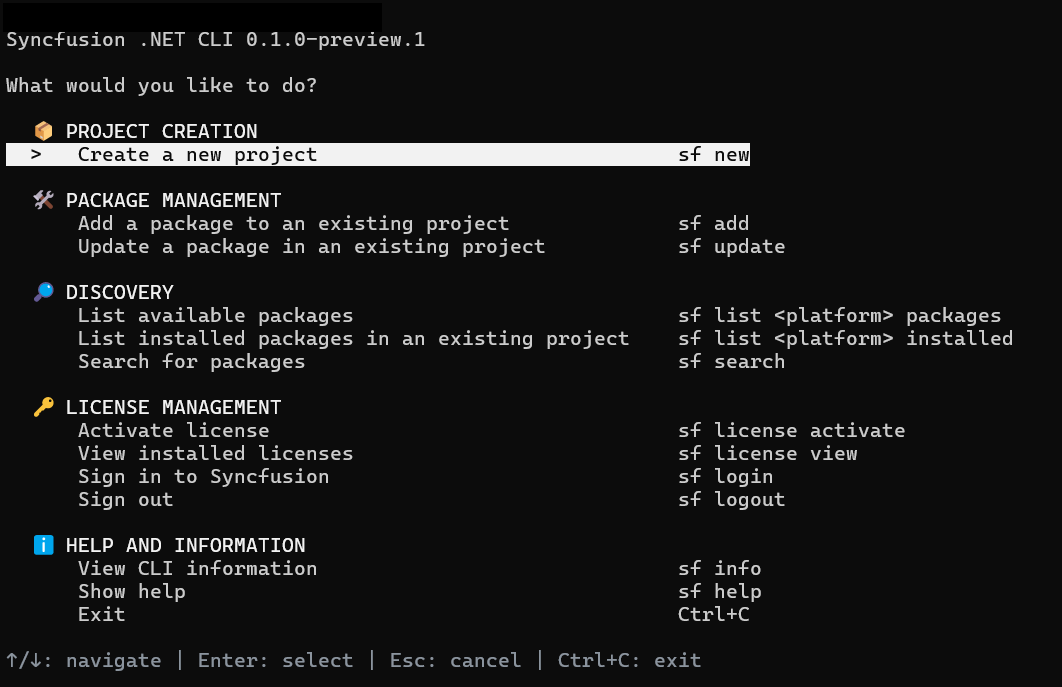
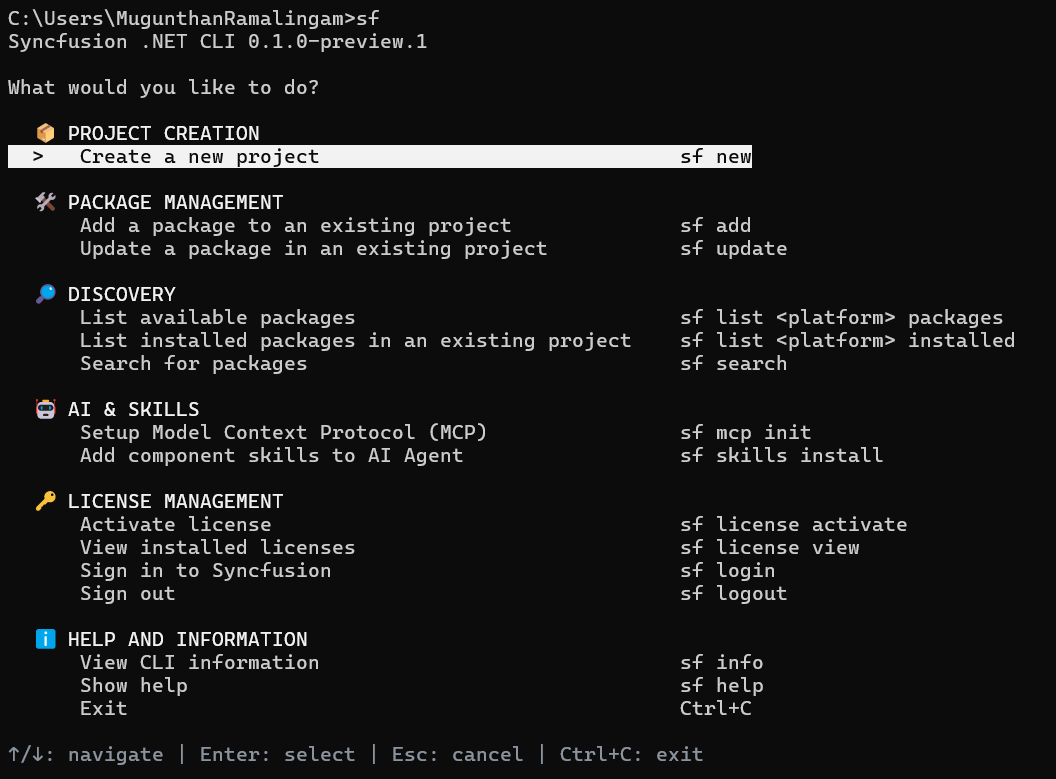
Document MCP and AI Skills configuration in the .NET CLI user guide

diff --git a/maui-toc.html b/maui-toc.html
@@ -100,7 +100,7 @@
                 </li>
                 </ul>
             </li>
-            <li>
+            <li class="label-updated">
                 <a href="/maui/dotnet-cli/dotnet-cli">.NET CLI</a>
             </li>
             <li><a href="/maui/Framework-Compatibility">.NET Framework Compatibility</a></li>

diff --git a/MAUI/dotnet-cli/dotnet-cli.md b/MAUI/dotnet-cli/dotnet-cli.md
@@ -1,7 +1,7 @@
 ---
 layout: post
 title: Syncfusion .NET CLI Overview for .NET MAUI | Syncfusion®
-description: Learn to install and use the Syncfusion® .NET CLI (sf) to create .NET MAUI apps, manage Syncfusion MAUI NuGet packages, and register licenses.
+description: Learn to install and use the Syncfusion® .NET CLI (sf) to create .NET MAUI apps, manage Syncfusion MAUI NuGet packages, register licenses, and configure MCP servers and AI skills.
 platform: MAUI
 control: Syncfusion<sup>®</sup> .NET CLI
 documentation: UG
@@ -19,6 +19,8 @@ You can use the CLI to perform the following actions:
 * Add or update Syncfusion<sup>®</sup> .NET MAUI NuGet package references in an existing project.
 * List available and installed packages, and search the package catalog.
 * Activate Syncfusion<sup>®</sup> licenses for the controls used in a sample, and view installed licenses.
+* Configure an official Syncfusion<sup>®</sup> Model Context Protocol (MCP) server for AI coding clients.
+* Install official Syncfusion<sup>®</sup> component skills for AI agents.
 * Generate projects for .NET MAUI, Blazor, WPF, WinForms, and WinUI 3.
 
 This documentation covers the .NET MAUI platform.
@@ -77,6 +79,8 @@ Run `sf` in an interactive terminal to open the main menu. The menu shows the cu
 | Discovery | List available packages | `sf list <platform> packages` |
 | Discovery | List installed packages in an existing project | `sf list <platform> installed` |
 | Discovery | Search for packages | `sf search` |
+| AI & Skills | Setup Model Context Protocol (MCP) | `sf mcp init` |
+| AI & Skills | Add component skills to AI Agent | `sf skills install` |
 | License management | Activate license | `sf license activate` |
 | License management | View installed licenses | `sf license view` |
 | License management | Sign in to Syncfusion | `sf login` |
@@ -109,6 +113,8 @@ Complete direct commands remain usable without opening the menu. `--no-interacti
 | `sf list maui packages` | List available packages |
 | `sf list maui installed` | List installed packages in an existing project |
 | `sf search maui <text>` | Search packages |
+| `sf mcp init maui` | Configure a project-local Syncfusion<sup>®</sup> MCP client |
+| `sf skills install maui` | Install Syncfusion<sup>®</sup> component skills for AI agents |
 | `sf login` | Sign in to Syncfusion through the browser |
 | `sf logout` | Sign out and clear the local session |
 | `sf license activate` | Download the license for the project's packages and register it in the project's startup code |
@@ -345,6 +351,160 @@ The cached output reports the registered email, platform, major version, and one
 * The startup file the CLI modifies by platform is `MauiProgram.cs` for .NET MAUI, `Program.cs` for Blazor, `App.xaml.cs` for WPF, `App.xaml.cs` for WinUI, and `Program.cs` (or `Application.xaml.vb` for VB) for WinForms.
 * Use `sf logout` to clear the local sign-in session. Use `sf login` to sign in again without running activation.
 
+## Configure an MCP server
+
+The `sf mcp init` command configures the official Syncfusion<sup>®</sup> .NET MAUI MCP server (`Syncfusion.Maui.MCP`) for an AI coding client in a project-local workspace. The MCP server exposes Syncfusion<sup>®</sup> documentation and product knowledge to AI agents, such as GitHub Copilot, Cursor, and Claude Code.
+
+The MCP setup workflow does not install component libraries and does not modify application code. It only writes the client's project-local MCP configuration file and, when needed, installs the official MCP NuGet tool.
+
+### Prerequisites
+
+* The .NET SDK 8 or later must be selected in the target workspace. The `--runner dnx` mode requires .NET SDK 10 or later.
+* A Syncfusion<sup>®</sup> MCP API key, generated at [https://www.syncfusion.com/account/api-key](https://www.syncfusion.com/account/api-key).
+* An active Syncfusion<sup>®</sup> license for MCP usage.
+
+N> The MCP API key is separate from your product license key and from the `sf login` session. It is used only by the MCP server.
+
+### Configure MCP through the interactive menu
+
+1. Run `sf` to open the main menu, and under **AI & Skills**, select **Setup Model Context Protocol (MCP)**.
+
+    ![AI and Skills section in the Syncfusion .NET CLI main menu](images/cli-setup-mcp-command-menu.png)
+
+2. Select the platform. Choose **.NET MAUI**.
+
+    ![Platform selection in the MCP setup flow of the Syncfusion .NET CLI](images/cli-select-platform-mcp.png)
+
+3. Enter the workspace directory. The default is the current directory. The workspace directory must already exist.
+
+4. Select the MCP client: **VS Code / GitHub Copilot**, **Cursor**, **Syncfusion Code Studio**, or **Claude Code**.
+
+5. Enter the API-key file path. The CLI prints the API-key download location, and the file must exist before setup. It must remain outside the workspace directory.
+
+    ![MCP configuration saved successfully in the Syncfusion .NET CLI](images/cli-configured-mcp.png)
+
+6. Open or reload the workspace in the selected client, start the server, and confirm that its tools are listed. Then ask a Syncfusion documentation question to verify the integration.
+
+N> Saving the configuration does not verify the connection to the MCP server. The CLI does not start the server or contact it during setup.
+
+### Configure MCP using direct commands
+
+```bash
+sf mcp init maui --client vscode --key-file "C:\Users\me\.syncfusion\api-key.txt"
+sf mcp init maui --client cursor --path "C:\Projects\MyApp" --key-file "C:\Keys\syncfusion.key"
+sf mcp init maui --client codestudio --key-file "C:\Keys\syncfusion.key" --dry-run
+sf mcp init maui --client claude-code --key-file "C:\Keys\syncfusion.key" --no-interactive --json
+```
+
+In a direct command, the platform is the positional argument. `--path` defaults to the current directory. In noninteractive or `--json` usage, the platform, client, and key file must be provided explicitly.
+
+### MCP configuration file location
+
+The CLI writes a project-local configuration file inside the workspace, next to the client's expected location:
+
+| Client | Configuration file | Server property |
+| --- | --- | --- |
+| VS Code / GitHub Copilot | `.vscode/mcp.json` | `servers` |
+| Cursor | `.cursor/mcp.json` | `mcpServers` |
+| Syncfusion Code Studio | `.codestudio/mcp.json` | `servers` |
+| Claude Code | `.mcp.json` | `mcpServers` |
+
+The generated entry registers a server named `sf-maui-mcp`. For example, for VS Code the CLI adds the following entry to `.vscode/mcp.json`:
+
+```json
+{
+  "servers": {
+    "sf-maui-mcp": {
+      "type": "stdio",
+      "command": "dotnet",
+      "args": ["tool", "run", "syncfusion-maui-mcp"],
+      "env": {
+        "Syncfusion_API_Key_Path": "C:\\Keys\\syncfusion.key"
+      }
+    }
+  }
+}
+```
+
+The CLI edits only the selected platform server entry. Unrelated JSON values, comments, and trailing commas in the file are preserved. Malformed files, duplicate JSON properties, and wrong-shaped configurations are rejected before any change is written. An identical existing entry is left untouched; a differing entry requires `--force`, which replaces only that platform's server entry.
+
+### Runner modes
+
+The MCP server runs as a .NET tool. The `--runner` option selects how the client starts it:
+
+| Runner | Behavior |
+| --- | --- |
+| `auto` (default) | Checks the .NET SDK selected in the workspace (including `global.json`). SDK 10 or later uses `dnx`; SDK 8/9 uses the local tool mode. |
+| `dnx` | Starts the server with `dnx Syncfusion.Maui.MCP --yes`. The package is downloaded when the client first starts the server. Requires .NET SDK 10 or later. |
+| `local` | Creates a local tool manifest at `.config/dotnet-tools.json` if one does not exist, installs the `Syncfusion.Maui.MCP` tool into it, and configures `dotnet tool run syncfusion-maui-mcp`. |
+
+N> When the local tool manifest already lists the MCP tool, the CLI restores the manifest's tools instead of reinstalling. This may also download other tools listed in that manifest. Run the client from the configured workspace so local-tool resolution uses that manifest.
+
+### MCP API key configuration
+
+The MCP server authenticates with a Syncfusion<sup>®</sup> API key that is different from the product license key. The CLI never reads, copies, or stores the key itself. It writes only the absolute file path into the configuration as the `Syncfusion_API_Key_Path` environment variable.
+
+**Create the API key file:**
+
+1. Sign in to your Syncfusion<sup>®</sup> account and generate an API key at [https://www.syncfusion.com/account/api-key](https://www.syncfusion.com/account/api-key).
+2. Save the key into a `.txt` or `.key` file, such as `C:\Users\me\.syncfusion\api-key.txt` or `~/.syncfusion/api-key.key`. These are the only supported file extensions.
+3. Keep the file outside the workspace directory. Setup rejects a key file located inside the workspace to prevent the credential from being committed to source control.
+4. Pass the file path through `--key-file` or enter it at the prompt. The CLI suggests the path stored in the `Syncfusion_API_Key_Path` environment variable as the default.
+
+**Update or manage the key:**
+
+* To use a new key value, edit the existing file in place. The configuration stores the file path, not the key content, so no configuration change is needed.
+* To use a different file, re-run `sf mcp init` with the new `--key-file` path.
+* Symbolic links are rejected; pass the real file path.
+
+W> Never commit the API-key file to source control, and never paste the key value directly into the terminal. Store the file in a location excluded from repositories, such as the user profile directory.
+
+## Install AI component skills
+
+The `sf skills install` command installs the official Syncfusion<sup>®</sup> .NET MAUI component skills for AI agents from the `syncfusion/maui-ui-components-skills` GitHub repository. Skills give AI agents product-specific guidance for generating and editing Syncfusion<sup>®</sup> control code. Skills are installed for the agents you choose, either project-local or global.
+
+No Syncfusion<sup>®</sup> account, API key, or license is required to install or read skills.
+
+### Prerequisites
+
+* [Node.js](https://nodejs.org) 22.20 or later, installed with npm and Git, available on `PATH`.
+* The setup uses the official Skills CLI (`skills@1.7.4`) through npx, which may download the CLI package and the official skills repository on first use.
+
+### Install skills through the interactive menu
+
+1. Run `sf` to open the main menu, and under **AI & Skills**, select **Add component skills to AI Agent**.
+
+    ![Add component skills to AI Agent option in the Syncfusion .NET CLI main menu](images/cli-setup-skills-command-menu.png)
+
+2. Select the platform. Choose **.NET MAUI**.
+
+    ![Platform selection in the skills installation flow of the Syncfusion .NET CLI](images/cli-select-platform-skills.png)
+
+3. Enter the workspace directory. The Skills CLI then presents its own interactive flow, in which you choose the component skills, the agents, and the project or global scope. No API key is required.
+
+    ![Component skills, agents, and scope selection in the Skills CLI](images/skills-installation.png)
+
+4. After the Skills CLI completes, the CLI reports the completed status for the skills repository.
+
+    ![Skills installed successfully in the Syncfusion .NET CLI](images/cli-skills-installed.png)
+
+### Install skills using direct commands
+
+```bash
+sf skills install maui
+sf skills install maui --list
+sf skills install maui --agent github-copilot --skill <exact-skill-name> --yes
+sf skills install maui --agent cursor claude-code --all --yes
+```
+
+* Use `--list` to list the exact skill names available in the repository without installing anything.
+* Use `--agent` with one or more agent IDs: `github-copilot`, `cursor`, `codestudio`, or `claude-code`.
+* Use `--skill` with one or more exact skill names, or `--all` to install all skills for the selected agents. `--all` does not mean all agents.
+* Noninteractive installation requires `--agent`, `--skill` (or `--all`), and `--yes`. The scope defaults to project-local; add `--global` explicitly to install skills in the user's global agent directories.
+* Skills are copied into the agent's skills location, so no symlink privileges are required.
+
+N> `completed` means the Skills CLI exited successfully, not that an AI agent has loaded or executed the skills. Reload the workspace in your AI agent so the newly installed skills are picked up.
+
 ## Options reference
 
 ### Creation options
@@ -380,6 +540,34 @@ N> `--post-action build` conflicts with `--no-build`. Neither `--force` nor conf
 | `--no-restore` | Skip `dotnet restore` after the action |
 | `--json` | Emit one JSON document |
 
+### MCP options
+
+| Option | Description |
+| --- | --- |
+| `<platform>` | The platform: `maui`, `blazor`, `wpf`, `winforms`, or `winui` |
+| `--client` | The MCP client: `vscode`, `cursor`, `codestudio`, or `claude-code` |
+| `--key-file` | Path to an existing API-key `.txt`/`.key` file outside the workspace |
+| `--runner` | Server runner: `auto` (default), `dnx`, or `local` |
+| `-p`, `--path` | The workspace directory. Defaults to the current directory. The directory must already exist |
+| `--dry-run` | Validate inputs and preview the destination without writing files or running tools |
+| `--force` | Replace an existing, differing platform server entry |
+| `--json` | Emit one JSON document |
+
+### Skills options
+
+| Option | Description |
+| --- | --- |
+| `<platform>` | The platform: `maui`, `blazor`, `wpf`, `winforms`, or `winui` |
+| `--agent` | One or more agent IDs: `github-copilot`, `cursor`, `codestudio`, or `claude-code` |
+| `--skill` | One or more exact skill names. Discover names with `--list` |
+| `--all` | Install all skills for the selected agents, not all agents |
+| `--global` | Install skills in the user's global agent directories |
+| `--yes` | Confirm noninteractive installation |
+| `--list` | List repository skill names without installing |
+| `-p`, `--path` | The workspace directory. Defaults to the current directory |
+| `--dry-run` | Show the planned Skills CLI command without executing it |
+| `--json` | Emit one JSON document |
+
 ### License options
 
 | Option | Description |
@@ -403,6 +591,12 @@ N> `--post-action build` conflicts with `--no-build`. Neither `--force` nor conf
 
 **Which platforms does the CLI support?** .NET MAUI, Blazor, WPF, WinForms, and WinUI 3. This documentation covers .NET MAUI.
 
+**Is the MCP API key the same as my product license key?** No. The MCP server uses a separate API key generated at [https://www.syncfusion.com/account/api-key](https://www.syncfusion.com/account/api-key). Store it in a `.txt` or `.key` file outside the workspace, and pass the file path through `--key-file`. The CLI writes only the file path into the MCP configuration; it never reads or copies the key.
+
+**Does MCP setup verify the server connection?** No. Setup writes the client configuration and installs the required tool, but does not contact the server. Open or reload the workspace in the client, start the server, confirm its tools are listed, and then ask a Syncfusion documentation question.
+
+**Do I need a license to install AI component skills?** No. Skills installation requires no Syncfusion<sup>®</sup> account, API key, or license. It requires Node.js 22.20 or later with npm and Git.
+
 ## See also
 
 * [Syncfusion .NET MAUI controls](https://www.syncfusion.com/maui-controls)
@@ -410,3 +604,4 @@ N> `--post-action build` conflicts with `--no-build`. Neither `--force` nor conf
 * [System requirements for .NET MAUI](https://help.syncfusion.com/maui/system-requirements)
 * [Installing .NET MAUI NuGet packages](https://help.syncfusion.com/maui/installation/install-nuget-packages)
 * [Syncfusion<sup>®</sup> licensing overview](https://help.syncfusion.com/common/essential-studio/licensing/overview)
+* [Syncfusion<sup>®</sup> .NET MAUI AI coding assistant skills](https://help.syncfusion.com/maui/ai-coding-assistant/skills/controls-user-skills)
